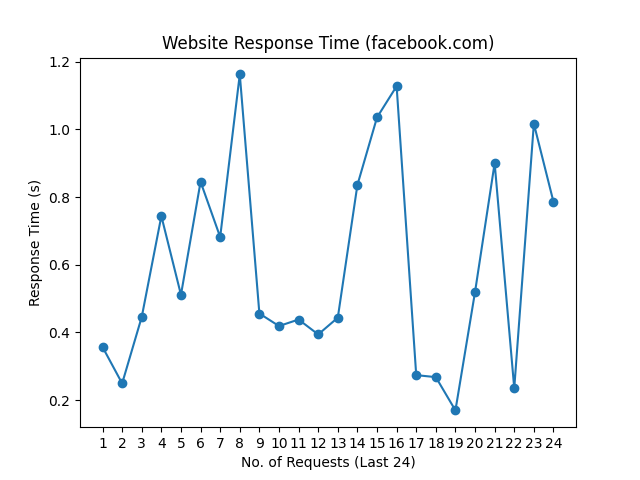
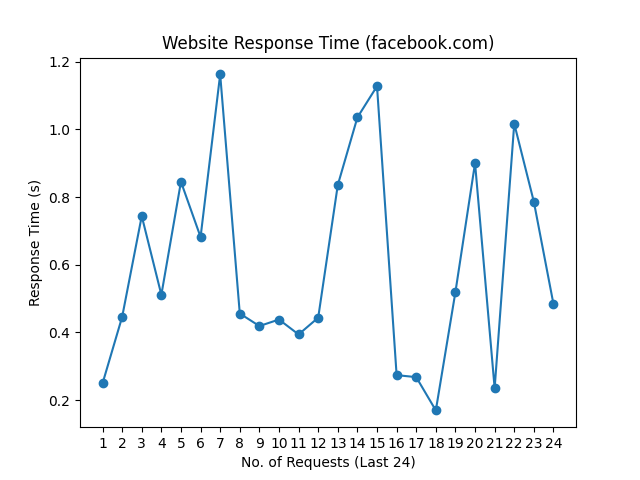
update README.md, history and graph

Changed region(s): [[0.1562, 0.125, 0.875, 0.875]]

diff --git a/README.md b/README.md
@@ -1,10 +1,10 @@
 # Web Monitoring
 
-Last Checked: 21/11/2024 08:21
+Last Checked: 22/11/2024 08:21
 
 | Website | Response Time (s) | Status | Avg Uptime (%) |
 |---------|-------------------|--------|----------------|
 | www.thiswebsiteisdown.net | 0 <br> <img src="graph/thiswebsiteisdown.net.png" alt="Graph" width="200" height="200">  | ❌ Down | 0.00 |
-| www.netflix.com | 1.226777 <br> <img src="graph/netflix.com.png" alt="Graph" width="200" height="200">  | ✅ Up | 100.00 |
-| www.google.com | 0.093435 <br> <img src="graph/google.com.png" alt="Graph" width="200" height="200">  | ✅ Up | 100.00 |
-| www.facebook.com | 0.786055 <br> <img src="graph/facebook.com.png" alt="Graph" width="200" height="200">  | ✅ Up | 100.00 |
+| www.netflix.com | 0.808267 <br> <img src="graph/netflix.com.png" alt="Graph" width="200" height="200">  | ✅ Up | 100.00 |
+| www.google.com | 0.091458 <br> <img src="graph/google.com.png" alt="Graph" width="200" height="200">  | ✅ Up | 100.00 |
+| www.facebook.com | 0.483942 <br> <img src="graph/facebook.com.png" alt="Graph" width="200" height="200">  | ✅ Up | 100.00 |
